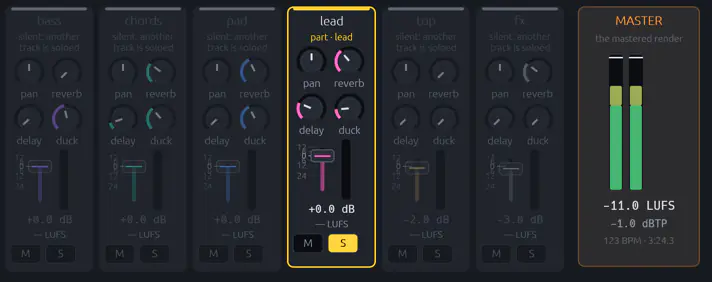
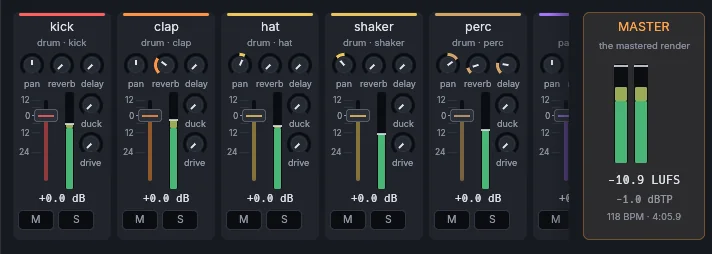
docs(site): the landing page's pictures of the studio show it as it looks now (#336)
The landing page's Studio section showed the studio from before its
redesign: the old toolbar (Render, stems, Mutate ×4, Evolve 3 gen 6
kids), the old mixer and the old verdict. These are the same four
pictures, taken again from the studio's demo (`/studio/?mock`) with the
redesign in.

## What changes

- **The whole studio** (`studio-ripples-*.webp`, at 800, 1200 and 1600
wide): Faded Engine, a deep house song in E major at 118 BPM, rendered
and judged. The transport and the toolbar's Variations, Improve, Sounds
and Export menus at the top; the arrangement in seven sections; the step
sequencer; the section's settings; the verdict at 97.
- **The mixer** (712 × 254): strips whole in the dock, with pan and the
sends over the fader, duck and drive beside it, and the master strip
pinned at the right.
- **The verdict** (348 × 462): the ring, the bars for shape, mix and
harmony, the issue to fix first, and what it measured, open.
- **The harmony tab** (820 × 213): which progression each section plays,
and progression A as eight chords in numerals and names.
- Each picture's size in the page and its words for those who can't see
it (the `alt` text), rewritten to say what the new picture shows.

The social preview (`og.png`) is a drawing, not a screenshot, and stays.

## How I checked it

- The page served from `site/`, its Studio section screenshotted at 1440
and 390 wide: the pictures load and lay out as before (the whole studio
[…]

diff --git a/site/index.html b/site/index.html
@@ -623,21 +623,21 @@ claudius reference</code></pre>
     </header>
 
     <figure class="shot shot-main">
-      <img src="/assets/img/studio-ripples-1200.webp" srcset="/assets/img/studio-ripples-800.webp 800w, /assets/img/studio-ripples-1200.webp 1200w, /assets/img/studio-ripples-1600.webp 1600w" sizes="(min-width: 1248px) 1200px, calc(100vw - 32px)" width="1600" height="985" loading="lazy" decoding="async" alt="The Claudius studio with Golden Bloom, a deep house song in G# minor at 123 BPM, rendered and open. At the top, the transport and its cyan readout; below, the arrangement with six coloured sections (intro, groove, break, build, drop, outro) and one row per track, the master waveform coloured by section, and the step sequencer for kick, clap, hat, shaker and perc. On the right, the selected section’s settings and the verdict: 98 out of 100, one issue, and the measures.">
+      <img src="/assets/img/studio-ripples-1200.webp" srcset="/assets/img/studio-ripples-800.webp 800w, /assets/img/studio-ripples-1200.webp 1200w, /assets/img/studio-ripples-1600.webp 1600w" sizes="(min-width: 1248px) 1200px, calc(100vw - 32px)" width="1600" height="985" loading="lazy" decoding="async" alt="The Claudius studio with Faded Engine, a deep house song in E major at 118 BPM, rendered and open. At the top, the transport and its cyan readout, the tempo, key and swing, and the score; below, the arrangement with seven coloured sections (intro, groove, break, build, drop, drop2, outro) and one row per track, the master waveform coloured by section, and the step sequencer for kick, clap, hat, shaker and perc. On the right, the selected section’s settings and the verdict: 97 out of 100 and the one thing to fix.">
       <figcaption>The arrangement, the step sequencer and the verdict. Sections are blocks you drag to reorder and right-click to duplicate, insert or remove; each track has a cell per section that switches it on or off there.</figcaption>
     </figure>
 
     <div class="shots">
       <figure class="shot shot-mixer">
-        <img src="/assets/img/studio-mixer.webp" width="712" height="282" loading="lazy" decoding="async" alt="The mixer with the lead soloed: channel strips with pan, reverb, delay and duck knobs and a fader, every other track marked silent while the lead plays, and the master strip with its meters at −11.0 LUFS and −1.0 dBTP.">
+        <img src="/assets/img/studio-mixer.webp" width="712" height="254" loading="lazy" decoding="async" alt="The mixer: a strip per track with pan, reverb and delay knobs over its fader, duck and drive beside it, its level, mute and solo and its meter, and the master strip at the right with its meters at −10.9 LUFS and −1.0 dBTP.">
         <figcaption><strong>Mixer.</strong> Level, pan, sends and sidechain per track, mute and solo, loudness meters and the master.</figcaption>
       </figure>
       <figure class="shot shot-verdict">
-        <img src="/assets/img/studio-verdict.webp" width="356" height="500" loading="lazy" decoding="async" alt="The verdict panel: a ring showing 98 out of 100, bars for arc, mix and theory, the issue to fix first (a fizzy top end), and the measures: tonal balance per band, loudness, true peak, loudness range and stereo correlation.">
+        <img src="/assets/img/studio-verdict.webp" width="348" height="462" loading="lazy" decoding="async" alt="The verdict panel: a ring showing 97 out of 100, bars for shape, mix and harmony, the issue to fix first (the drop only 3.0 LU louder than the breakdown), and what it measured: the tonal balance per band, the loudness and the true peak.">
         <figcaption><strong>Verdict.</strong> The score, the issue to fix first, and the measures behind it.</figcaption>
       </figure>
       <figure class="shot shot-harmony">
-        <img src="/assets/img/studio-harmony.webp" width="814" height="276" loading="lazy" decoding="async" alt="The harmony tab of a song in G# minor: which progression each section plays (A in the intro, groove and drop, B in the break and build), and progression A as four chords, i7 iv7 v7 i7, with the chord names under the Roman numerals.">
+        <img src="/assets/img/studio-harmony.webp" width="820" height="213" loading="lazy" decoding="async" alt="The harmony tab of a song in E major: which progression each section plays (A in the intro, groove, drop, drop2 and outro, B in the break and build), and progression A as eight chords, ii9 bII7 Imaj9 Imaj9 ii9 bII7 Imaj9 Isus4, with the chord names under the Roman numerals.">
         <figcaption><strong>Harmony.</strong> Progressions as chords and Roman numerals, and which sections play which.</figcaption>
       </figure>
     </div>
